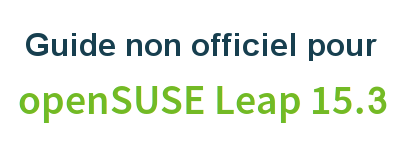
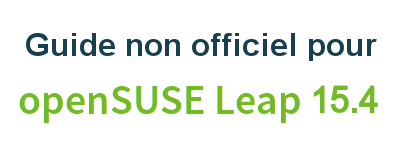
maj 15.4

Changed region(s): [[0.78, 0.56, 0.99, 0.7733]]

diff --git a/_includes/header2.html b/_includes/header2.html
@@ -36,7 +36,7 @@
 
 
 <td align="center" valign="top" style="padding-top: 5px" width="33%">
-<a href="https://github.com/alionetasso/opensuse-guide-fr/commits/master" class="content-text" target="_blank">Mise à jour: 02 juin 2021</a>
+<a href="https://github.com/alionetasso/opensuse-guide-fr/commits/master" class="content-text" target="_blank">Mise à jour: 08 juin 2022</a>
 </td>
 
 

diff --git a/repositories.md b/repositories.md
@@ -79,7 +79,7 @@ Si vous le souhaitez, vous pouvez également gérer vos dépôts via un terminal
 
 Ajout d'un dépôt avec auto-refresh activé `zypper addrepo -f[URL][Alias]`. Exemple :
 
-<div class="clroot">zypper addrepo -f http://ftp.gwdg.de/pub/linux/misc/packman/suse/openSUSE_Leap_15.3/ packman</div>
+<div class="clroot">zypper addrepo -f http://ftp.gwdg.de/pub/linux/misc/packman/suse/openSUSE_Leap_15.4/ packman</div>
 
 Désactiver un dépôt `zypper modifyrepo -d [URL|Alias]`. Exemple:
 
@@ -87,7 +87,7 @@ Désactiver un dépôt `zypper modifyrepo -d [URL|Alias]`. Exemple:
 
 Supprimer un dépôt `zypper removerepo [URL|Alias]`. Exemple:
 
-<div class="clroot">zypper removerepo http://ftp.gwdg.de/pub/linux/misc/packman/suse/openSUSE_Leap_15.3/</div>
+<div class="clroot">zypper removerepo http://ftp.gwdg.de/pub/linux/misc/packman/suse/openSUSE_Leap_15.4/</div>
 
 Lister les dépôts configurés, en affichant les détails (priorités, URL, etc.):
 

diff --git a/kde.md b/kde.md
@@ -46,7 +46,7 @@ Vous pouvez également utiliser l'effet de grille du bureau pour obtenir une vue
 ## 5.2 Gestion des fichiers
 
 Le gestionnaire de fichiers par défaut est Dolphin, qui est l'un des favoris dans le menu de lancement ou dans la catégorie "Système". Il devrait être très intuitif. Les clés USB et autres supports amovibles apparaîtront automatiquement dans le volet gauche de Dolphin.
-<div class="path">Launch Menu => System => Dolphin</div><br />
+<div class="path">Menu lanceur des applications => System => Dolphin</div><br />
 
 
 <center><a href="images/screenshots/dolphin.png" rel="thumbnail"><img src="images/screenshots/dolphinb.png" alt="dolphin" class="pic" /></a></center><br />

diff --git a/codecs.md b/codecs.md
@@ -34,7 +34,7 @@ Pour installer les codecs à l'aide du terminal, procédez comme suit :
 1) Ajoutez les dépôts nécessaires :
 
 <div class="clroot">zypper addrepo -f 'https://ftp.gwdg.de/pub/linux/misc/packman/suse/openSUSE_Leap_$releasever/' packman</div>
-<div class="clroot">zypper addrepo -f http://opensuse-guide.org/repo/openSUSE_Leap_15.3/ dvd</div>
+<div class="clroot">zypper addrepo -f http://opensuse-guide.org/repo/openSUSE_Leap_15.4/ dvd</div>
 
 2) Ensuite, installez les paquets nécessaires :
 

diff --git a/acquisition.md b/acquisition.md
@@ -50,4 +50,4 @@ Par exemple, consultez ces vendeurs :
 
 Vous pouvez trouver le code source de tous les paquets gratuits d'openSUSE ici, sous forme de fichiers RPM source :  
 
-[http://download.opensuse.org/source/distribution/leap/15.3/repo/oss/src/](http://download.opensuse.org/source/distribution/leap/15.3/repo/oss/src/)
+[http://download.opensuse.org/source/distribution/leap/15.4/repo/oss/src/](http://download.opensuse.org/source/distribution/leap/15.4/repo/oss/src/)
